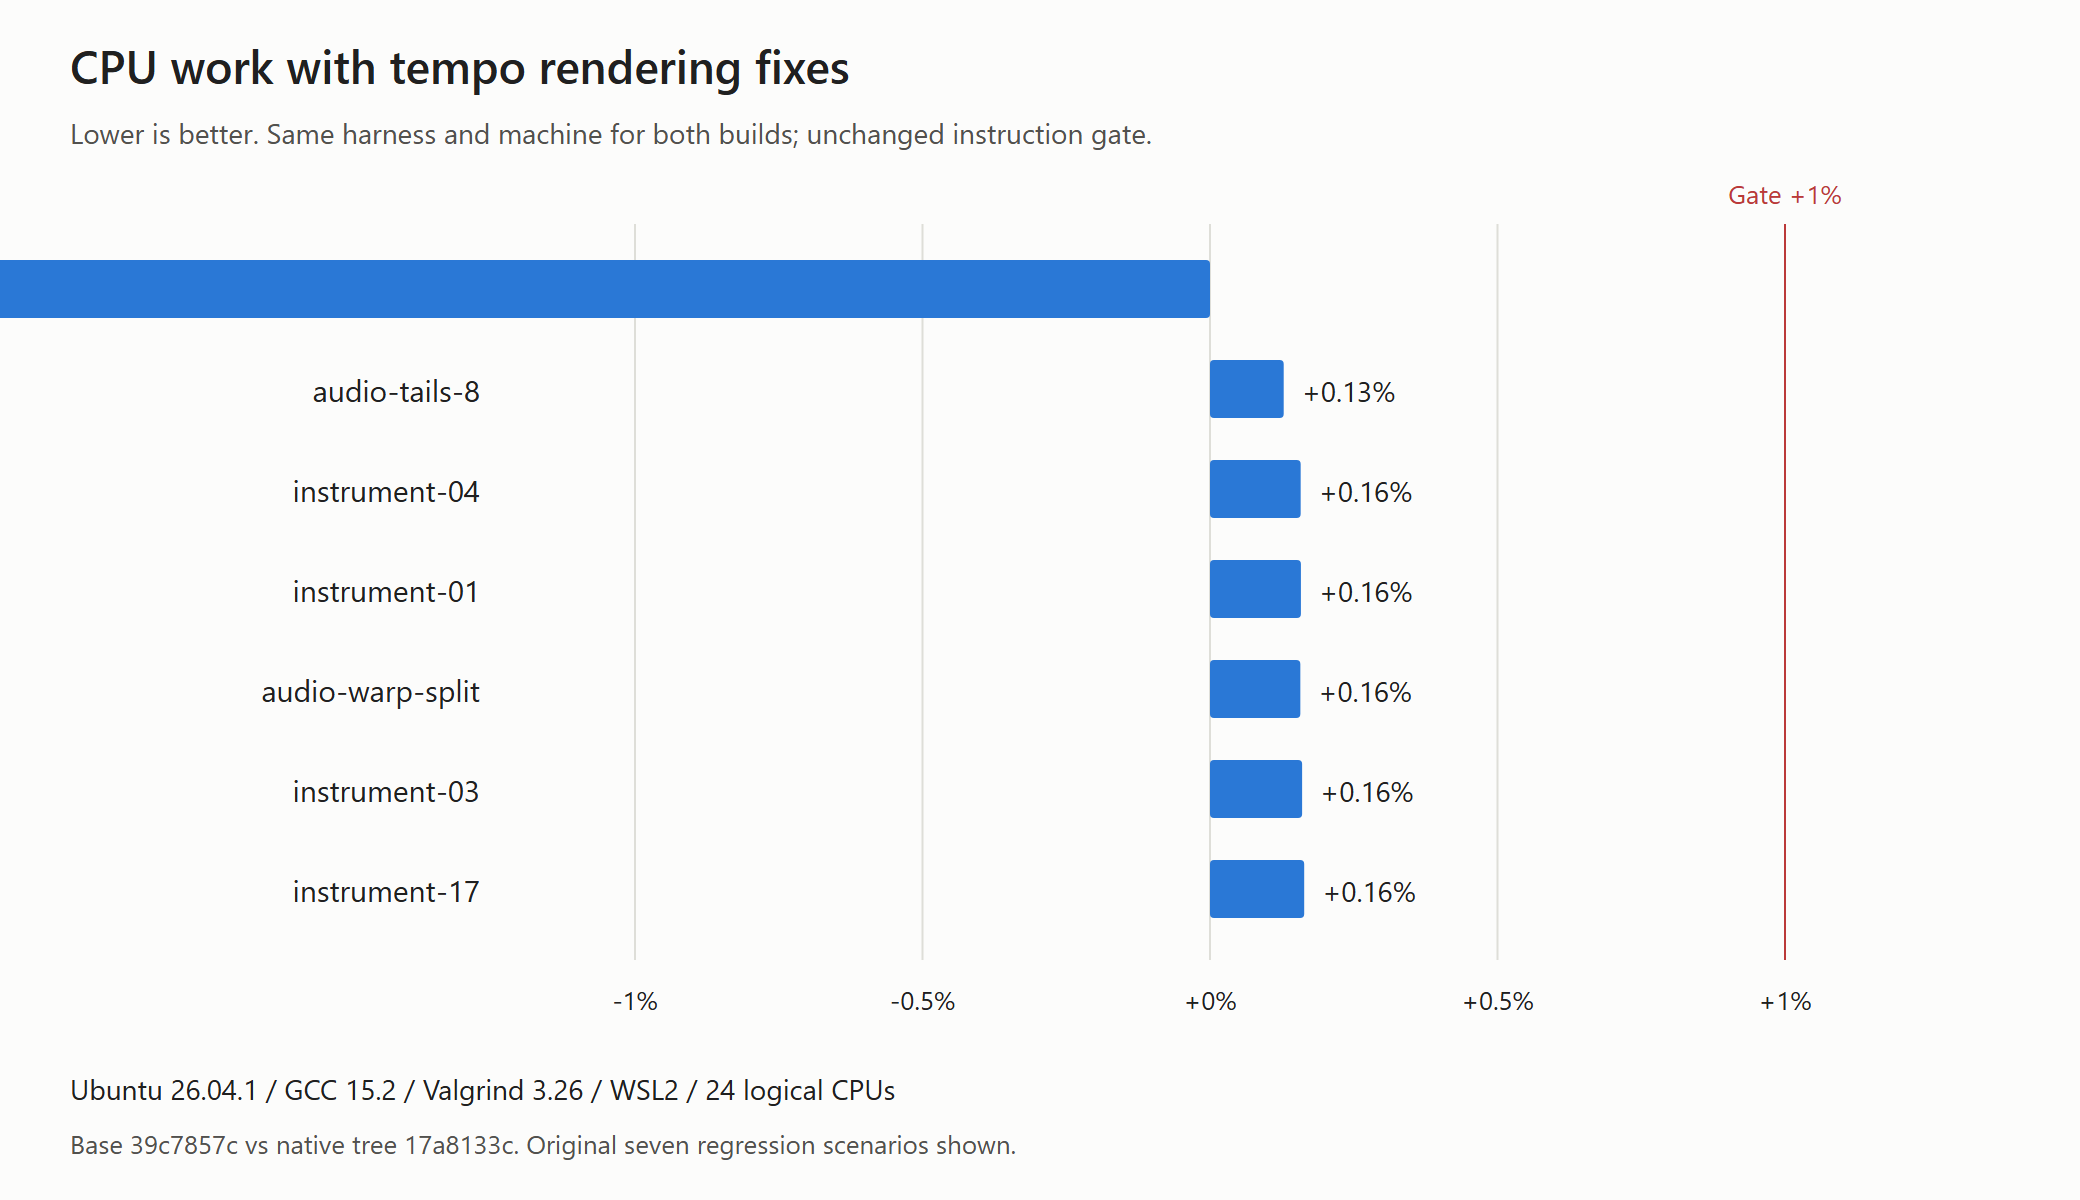
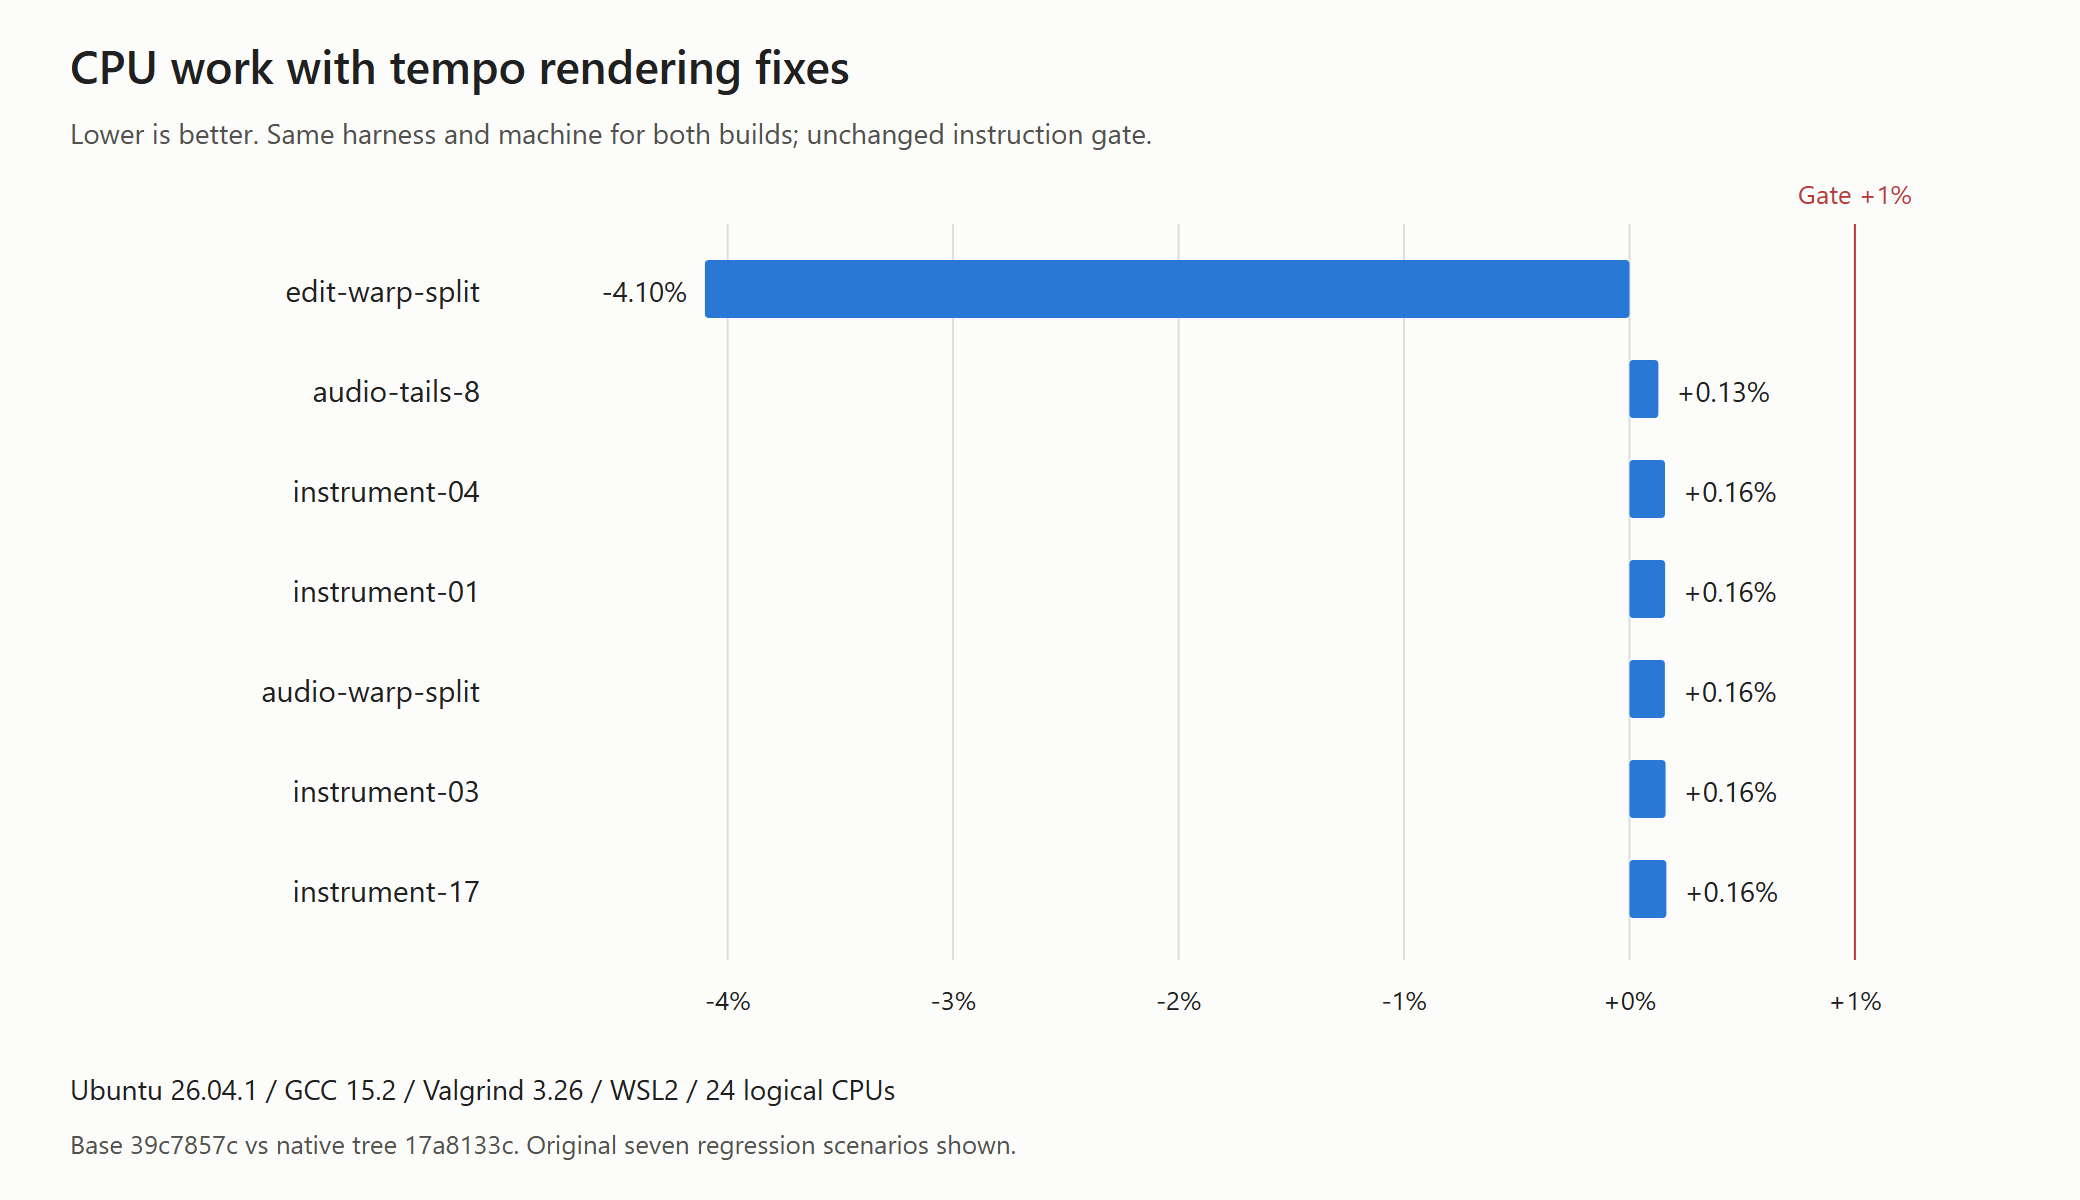
(docs) Fit the full split-work improvement in the chart

diff --git a/issue-535/tempo-map-rendering/chart.py b/issue-535/tempo-map-rendering/chart.py
@@ -21,14 +21,16 @@ def timing(side):
     return out
 
 def chart(filename, title, subtitle, base, head, limit):
-    lo, hi = -limit * 1.2, limit * 1.2
+    values = [100 * (head[sid] / base[sid] - 1) for sid in ids]
+    lo, hi = min(-limit * 1.2, min(values) * 1.2), max(limit * 1.2, max(values) * 1.2)
     x = lambda v: 260 + (v - lo) / (hi - lo) * 690
     parts = ['<svg xmlns="http://www.w3.org/2000/svg" width="1040" height="600" viewBox="0 0 1040 600">',
              '<rect width="1040" height="600" fill="#fcfcfb"/>',
              '<g font-family="Segoe UI,Arial,sans-serif" fill="#202020">',
              f'<text x="35" y="42" font-size="23" font-weight="600">{html.escape(title)}</text>',
              f'<text x="35" y="72" font-size="14" fill="#52514e">{html.escape(subtitle)}</text>']
-    for tick in [-limit, -limit/2, 0, limit/2, limit]:
+    ticks = list(range(int(lo), int(hi) + 1)) if limit == 1 and lo < -1.21 else [-limit, -limit/2, 0, limit/2, limit]
+    for tick in ticks:
         color = '#bb3939' if tick == limit else '#deded8'
         parts.append(f'<line x1="{x(tick)}" x2="{x(tick)}" y1="112" y2="480" stroke="{color}"/>')
         parts.append(f'<text x="{x(tick)}" y="505" text-anchor="middle" font-size="13">{tick:+g}%</text>')
